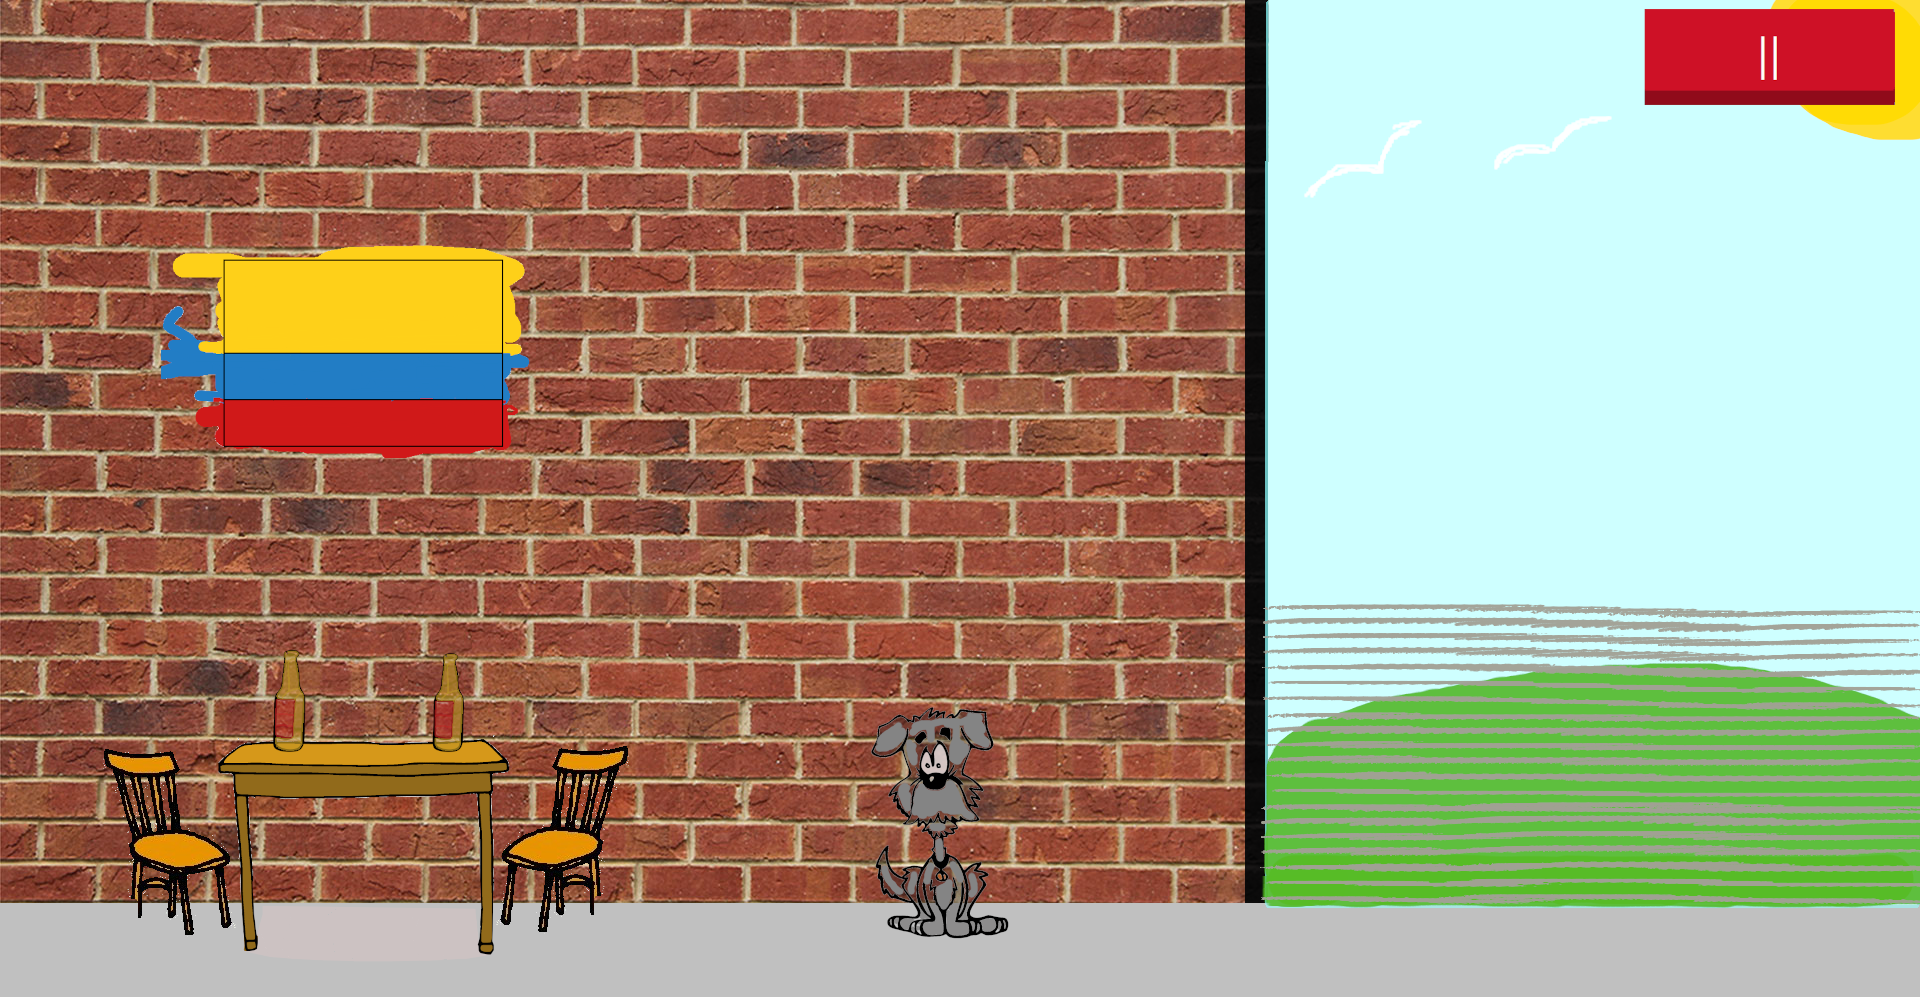
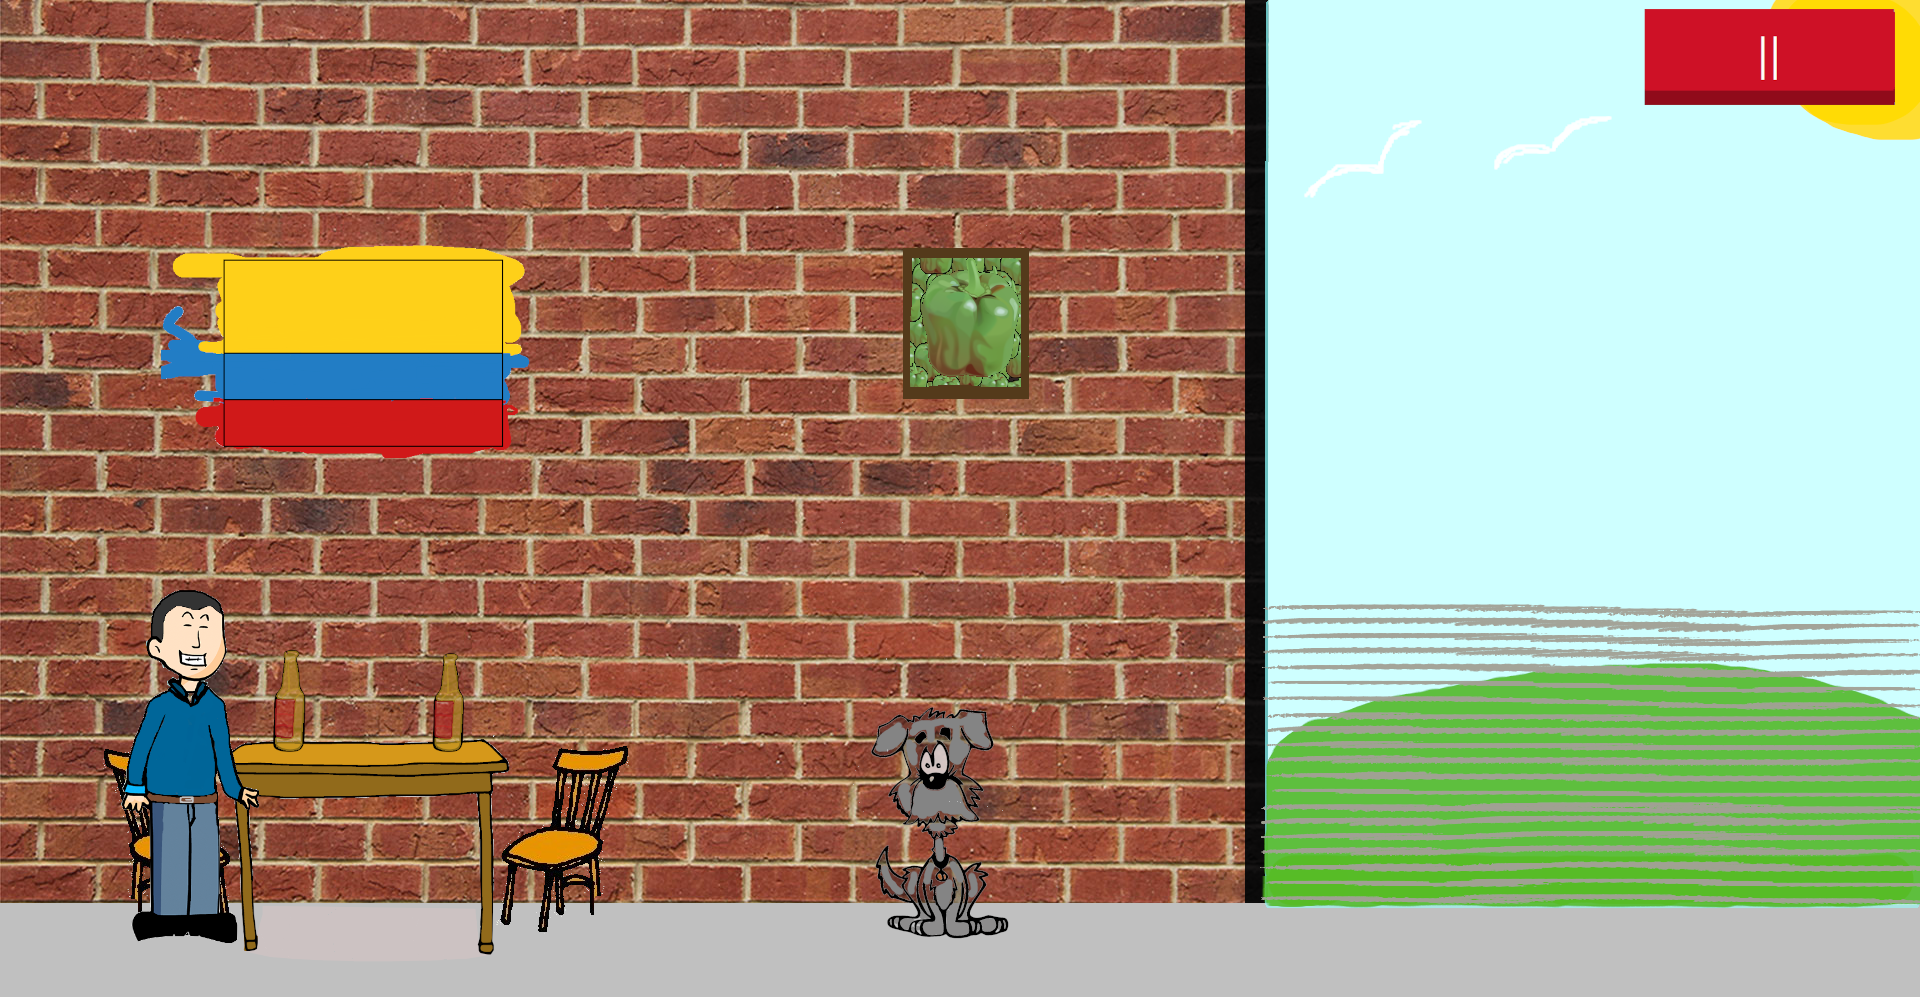
Mejore El escenario

Changed region(s): [[0.0625, 0.5908, 0.1562, 0.9639], [0.4688, 0.2487, 0.5625, 0.4042]]

diff --git a/src/models/Game.java b/src/models/Game.java
@@ -9,6 +9,9 @@ import views.MyAudio;
 public class Game extends Thread implements ITejo {
 
 	public static final int MAX_SHOOTS = 5;
+	public static final int SCORE_SCENARIO_1 = 300;
+	public static final int SCORE_SCENARIO_2 = 300;
+
 	private Tejo tejo;
 	private Gamer gamer;
 	private Arrow arrow;
@@ -32,7 +35,7 @@ public class Game extends Thread implements ITejo {
 		tejo = new Tejo();
 		gamer = new Gamer();
 		box = new TejoBox();
-		arrow = new Arrow(Gamer.INITIAL_X + Gamer.SIZE, random.nextInt(Arrow.MAX_ANGLE));
+		arrow = new Arrow(Gamer.INITIAL_X + Gamer.SIZE_X, random.nextInt(Arrow.MAX_ANGLE));
 		play = true;
 		shoots = 0;
 		maxScore = 0;
@@ -166,7 +169,7 @@ public class Game extends Thread implements ITejo {
 	}
 
 	public void setArrow() {
-		this.arrow = new Arrow(Gamer.INITIAL_X + Gamer.SIZE, random.nextInt(Arrow.MAX_ANGLE));
+		this.arrow = new Arrow(Gamer.INITIAL_X + Gamer.SIZE_X, random.nextInt(Arrow.MAX_ANGLE));
 	}
 
 	@Override

diff --git a/src/models/Tejo.java b/src/models/Tejo.java
@@ -8,8 +8,8 @@ public class Tejo extends Thread {
 
 	public static final int SIZE_X = 30;
 	public static final int SIZE_Y = 18;
-	public static final int INITIAL_Y = 750;
-	public static final int INITIAL_X = Gamer.INITIAL_X + Gamer.SIZE - SIZE_X;
+	public static final int INITIAL_Y = Gamer.Y + Gamer.SIZE_Y/2 + SIZE_Y;
+	public static final int INITIAL_X = Gamer.INITIAL_X + Gamer.SIZE_X - SIZE_X;
 	public static final int MOVE_SIZE = 5;
 	public static final double GRAVITY = 9.81;
 	public static final int FLOOR = Toolkit.getDefaultToolkit().getScreenSize().height - Scenario.GRASS_STROKE;

diff --git a/src/models/Gamer.java b/src/models/Gamer.java
@@ -6,10 +6,10 @@ import views.Scenario;
 
 public class Gamer {
 	
-    private static final int SHOES_SIZE = 15;
 	private int x;
-    public static final int SIZE = 300;
-    public static final int Y = Toolkit.getDefaultToolkit().getScreenSize().height-Scenario.GRASS_STROKE-SIZE + SHOES_SIZE;
+    public static final int SIZE_X = 300;
+    public static final int SIZE_Y = 340;
+    public static final int Y = Toolkit.getDefaultToolkit().getScreenSize().height-Scenario.GRASS_STROKE-SIZE_X;
     public static final int INITIAL_X = 350;
     public static final int MOVE_SIZE = 5;
     

diff --git a/src/views/Scenario.java b/src/views/Scenario.java
@@ -108,7 +108,7 @@ public class Scenario extends JPanel {
 
 	public void paintHero(ITejo gameData) {
 		Graphics g = background.getGraphics();
-		g.drawImage(imgGamer, gameData.getGamerPosition(), Gamer.Y, Gamer.SIZE, Gamer.SIZE, this);
+		g.drawImage(imgGamer, gameData.getGamerPosition(), Gamer.Y, Gamer.SIZE_X, Gamer.SIZE_Y, this);
 	}
 
 	public void paintArrow(ITejo gameData) {

diff --git a/src/models/Arrow.java b/src/models/Arrow.java
@@ -3,7 +3,7 @@ package models;
 public class Arrow {
 	
     private static final int INITIAL_POWER = 5;
-	public static final int START_Y = 750;
+	public static final int START_Y = Tejo.INITIAL_Y;
     public static final int START_X = Tejo.INITIAL_X + Tejo.SIZE_X;
     public static final int MAX_ANGLE = 50;
     public static final int MOVE_ARROW_SIZE = 3;

diff --git a/src/models/Mecha.java b/src/models/Mecha.java
@@ -8,7 +8,7 @@ public class Mecha {
 	
 	public static final int SIZE_X = 30;
 	public static final int SIZE_Y = 10;
-	public static final int SCORE_MECHA = 200;
+	public static final int SCORE_MECHA = 300;
 	
 	private int x;
 
